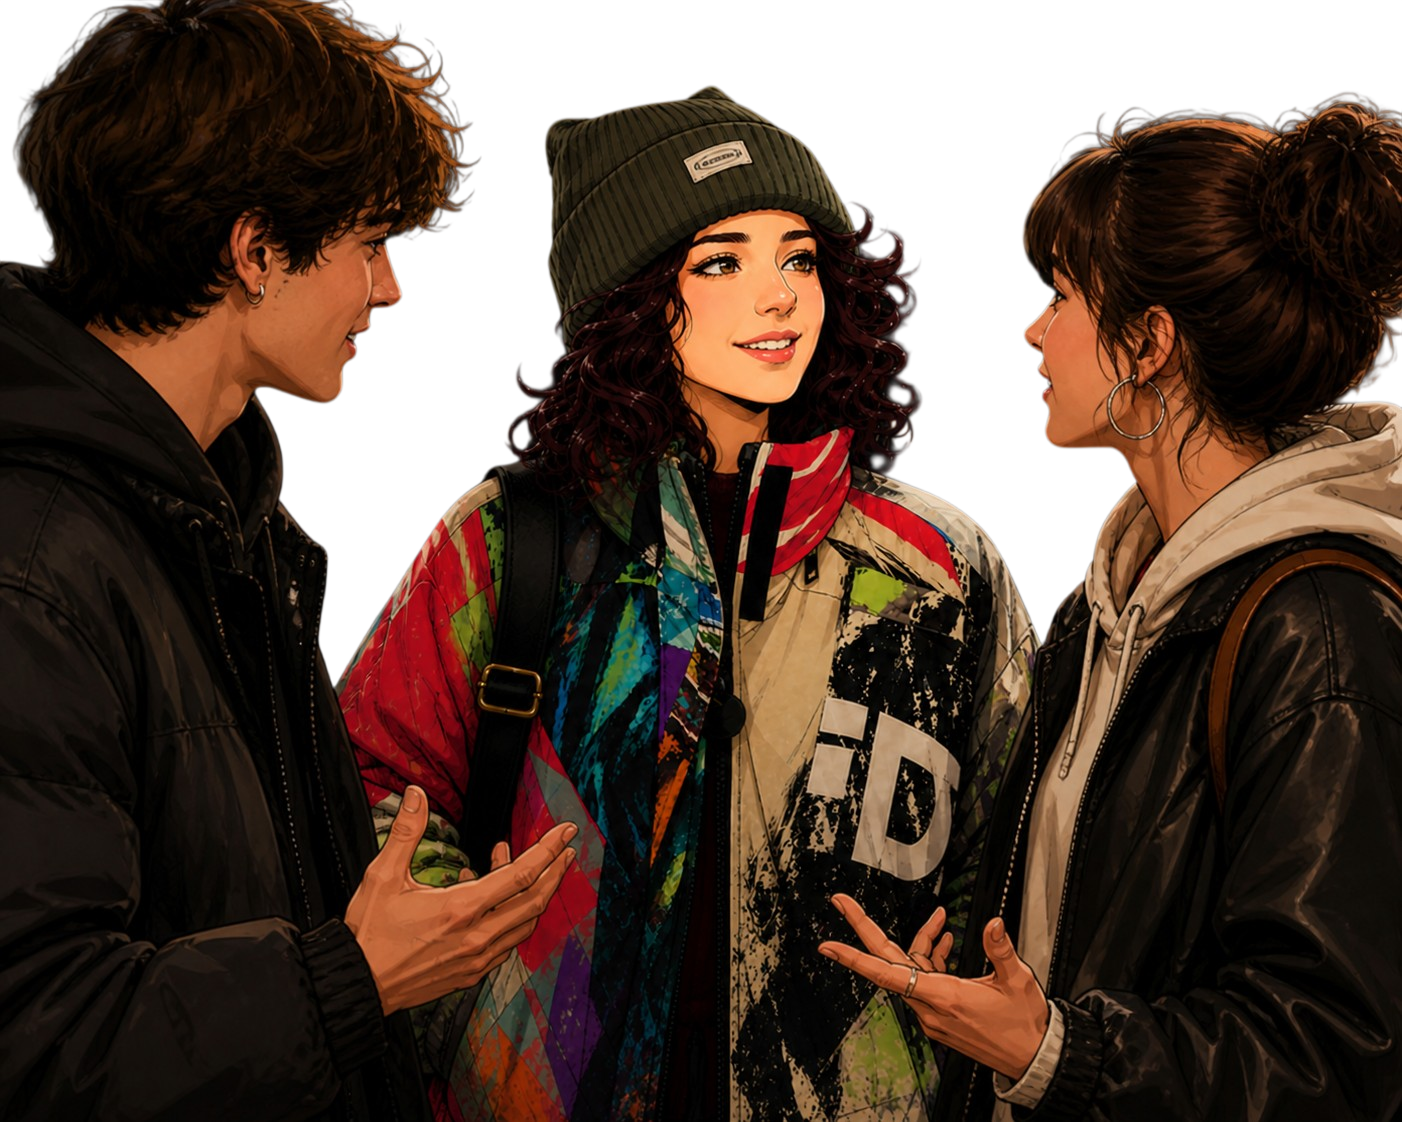
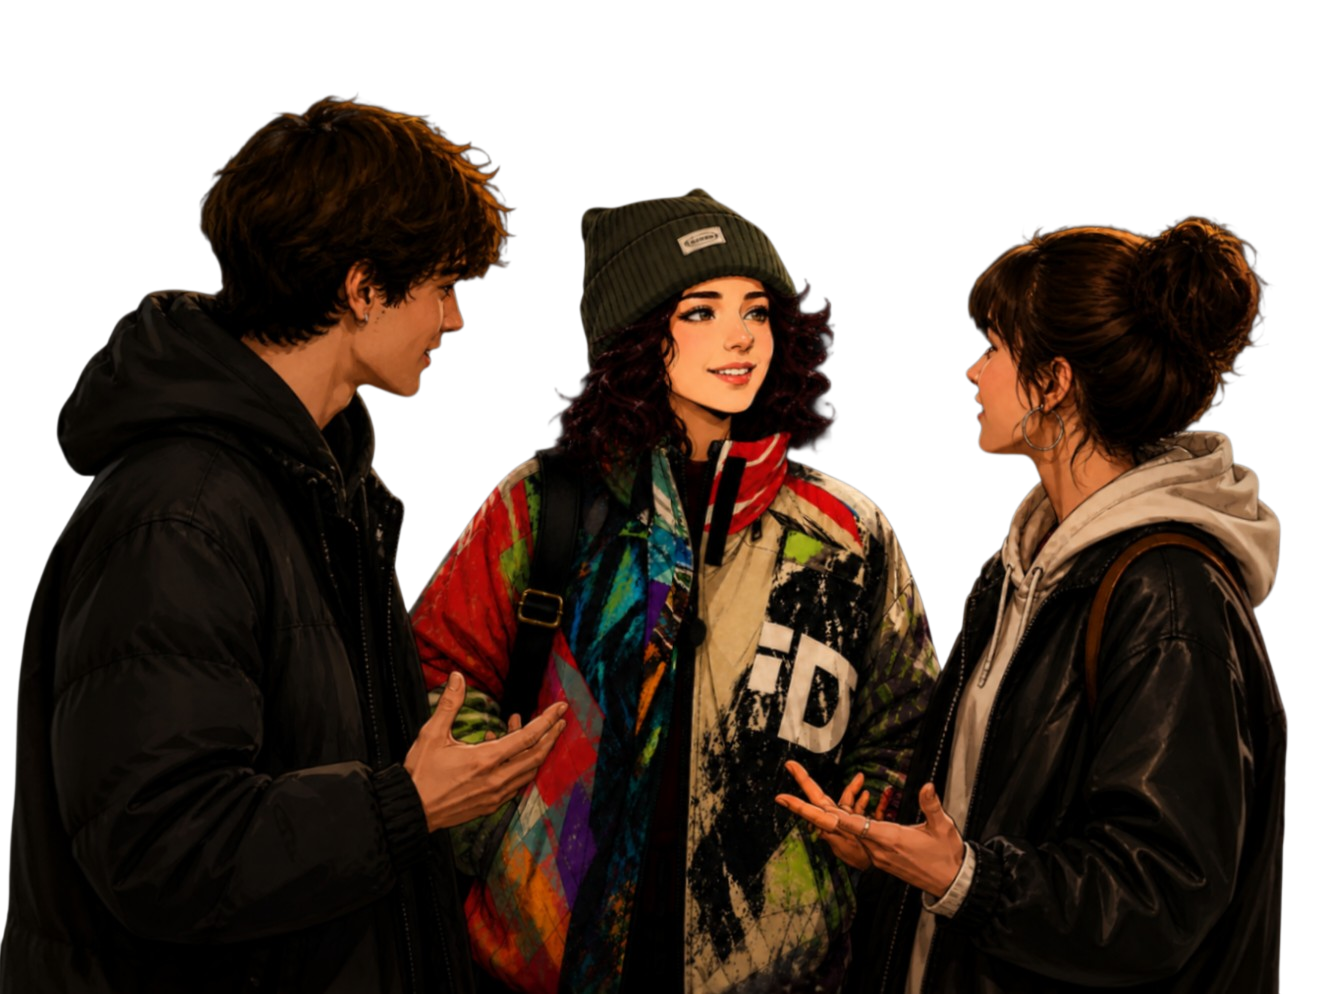
fix image

diff --git a/src/components/Collabs/Collabs.scss b/src/components/Collabs/Collabs.scss
@@ -4,6 +4,14 @@
   margin-top: 6rem;
   padding: 4rem 3rem;
   overflow: hidden;
+  h2 {
+    color: $text-primary;
+    text-shadow: $text-shadow-light;
+    background: none;
+    background-clip: text;
+    -webkit-background-clip: text;
+    -webkit-text-fill-color: rgb(35, 35, 35);
+  }
 }
 
 .collabs-content {
@@ -109,7 +117,47 @@
   }
 }
 
-@media (max-width: 768px) {
+.collabs-layout {
+  position: relative;
+  overflow: visible;
+  display: grid;
+  grid-template-columns: 1.4fr 0.9fr;
+  gap: 3rem;
+}
+
+.collabs-grid {
+  display: flex;
+  flex-wrap: wrap;
+  gap: 1.4rem;
+}
+
+.collab-card {
+  flex: 1 1 360px;
+}
+
+.collabs-side {
+  position: relative;
+  text-align: left;
+  justify-content: space-between;
+  overflow: visible;
+}
+
+.collabs-image-wrap {
+  position: absolute;
+  top: 15rem;
+  right: 9rem;
+  width: 357px;
+  z-index: 0;
+  pointer-events: none;
+  overflow: visible;
+
+  img {
+    width: 550px;
+    display: block;
+  }
+}
+
+@media (max-width: 1060px) {
   .collabs-section {
     padding: 3rem 2rem;
   }
@@ -120,5 +168,21 @@
 
   .collabs-intro {
     margin: 0;
+  }
+  .collabs-layout {
+    grid-template-columns: 1fr;
+  }
+
+  .collabs-side {
+    order: -1;
+    text-align: center;
+  }
+
+  .collabs-image-wrap {
+    top: 12rem;
+    right: -9rem;
+    img {
+      width: 150px;
+    }
   }
 }

diff --git a/src/components/Collabs/Collabs.jsx b/src/components/Collabs/Collabs.jsx
@@ -1,5 +1,6 @@
 import { motion } from "framer-motion";
 import "./Collabs.scss";
+import collabsImg from "../../assets/images/collabs.png";
 
 const fadeRight = {
   hidden: {
@@ -38,60 +39,50 @@ const collaborations = [
 
 const Collabs = () => {
   return (
-    <motion.section className="collabs-section glass-section">
+    <motion.section className="collabs-section glass-section" id="collabs">
       <motion.div
-        className="collabs-content"
+        className="collabs-layout"
         initial="hidden"
         whileInView="show"
         viewport={{ once: true, amount: 0.01 }}
-        transition={{ duration: 0.7, ease: "easeOut" }}
         variants={fadeRight}
-        id="collabs"
       >
-        <motion.span
-          className="section-label"
-          initial="hidden"
-          whileInView="show"
-          viewport={{ once: true, amount: 0.01 }}
-          transition={{ duration: 0.7, ease: "easeOut" }}
-          variants={fadeRight}
-        >
-          Collaborazioni
-        </motion.span>
-
-        <motion.h2>Dove le idee si incontrano.</motion.h2>
-
-        <motion.p className="collabs-intro">
-          Progetti, esperienze e lavori condivisi in cui ho potuto crescere,
-          confrontarmi e trasformare idee in interfacce concrete.
-        </motion.p>
-
         <motion.div className="collabs-grid">
           {collaborations.map((item, index) => (
             <motion.article
               className="collab-card"
-              initial="hidden"
-              whileInView="show"
-              viewport={{ once: true, amount: 0.01 }}
-              transition={{ duration: 0.7, ease: "easeOut" }}
+              key={item.title}
               variants={fadeRight}
+              whileHover={{ y: -8, scale: 1.02 }}
             >
-              <motion.div
-                className="collab-number"
-                initial="hidden"
-                whileInView="show"
-                viewport={{ once: true, amount: 0.01 }}
-                transition={{ duration: 0.7, ease: "easeOut" }}
-                variants={fadeRight}
-              >
-                0{index + 1}
-              </motion.div>
+              <motion.div className="collab-number">0{index + 1}</motion.div>
 
               <h3>{item.title}</h3>
               <span>{item.role}</span>
               <p>{item.text}</p>
             </motion.article>
           ))}
+        </motion.div>
+
+        <motion.div className="collabs-side" variants={fadeRight}>
+          <span className="section-label">Collaborazioni</span>
+          <h2>Dove le idee si incontrano.</h2>
+          <p className="collabs-intro">
+            Progetti, esperienze e lavori condivisi in cui ho potuto crescere,
+            confrontarmi e trasformare idee in interfacce concrete.
+          </p>{" "}
+        </motion.div>
+        <motion.div
+          className="collabs-image-wrap"
+          initial={{ opacity: 0, scale: 0.92 }}
+          animate={{ opacity: 1, scale: 1 }}
+          transition={{ duration: 0.8 }}
+        >
+          <img
+            src={collabsImg}
+            alt="Illustrazione collaborazioni"
+            className="collabs-img"
+          />
         </motion.div>
       </motion.div>
     </motion.section>

diff --git a/src/components/Projects/Projects.scss b/src/components/Projects/Projects.scss
@@ -104,7 +104,7 @@
 .project-image-wrap {
   position: absolute;
   top: -19rem;
-  right: 64rem;
+  left: 64px;
   width: 357px;
   z-index: 0;
   pointer-events: none;